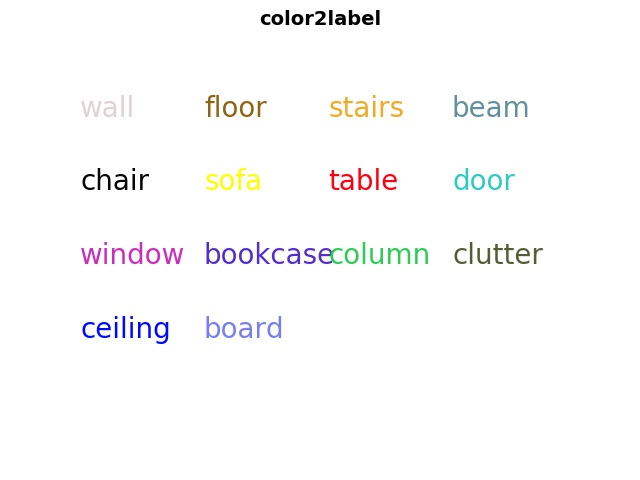
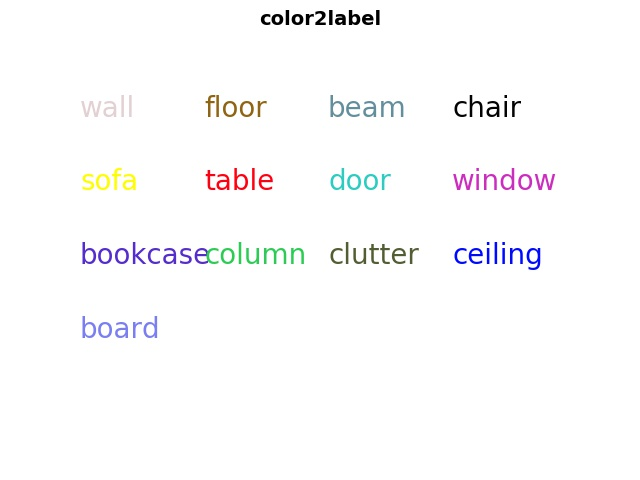
small fix

diff --git a/data/utils.py b/data/utils.py
@@ -4,23 +4,22 @@ import numpy as np
 from numpy.linalg import matrix_rank, inv
 from plyfile import PlyData, PlyElement
 import pandas as pd
-CLASS_LABELS = ('wall', 'floor', 'stairs', 'beam', 'chair', 'sofa', 'table', 'door', 'window', 'bookcase', 'column', 'clutter', 'ceiling', 'board')
+CLASS_LABELS = ('wall', 'floor', 'beam', 'chair', 'sofa', 'table', 'door', 'window', 'bookcase', 'column', 'clutter', 'ceiling', 'board')
 COLOR_MAP_RGB = {
     0: (0., 0., 0.),
     1: (227., 209., 212.),
     2: (143., 100., 21.),
-    3: (242., 171., 39.),
-    4: (100., 143., 156.),
-    5: (3., 3., 3.),
-    6: (255., 255., 0.),
-    7: (255., 0., 17.),
-    8: (45., 204., 193.),
-    9: (204., 45., 191.),
-    10: (85., 45., 204.),
-    11: (45., 204., 85.),
-    12: (81., 94., 51.),
-    13: (0., 9., 255.),
-    14: (122., 126., 240.)
+    3: (100., 143., 156.),
+    4: (3., 3., 3.),
+    5: (255., 255., 0.),
+    6: (255., 0., 17.),
+    7: (45., 204., 193.),
+    8: (204., 45., 191.),
+    9: (85., 45., 204.),
+    10: (45., 204., 85.),
+    11: (81., 94., 51.),
+    12: (0., 9., 255.),
+    13: (122., 126., 240.)
 }
 IGNORE_COLOR = (0, 0, 0)
 
@@ -61,8 +60,6 @@ def color2label():
             color=COLOR_MAP_RGB[12], fontsize=font)
     ax.text(0, 0.3, CLASS_LABELS[12], verticalalignment='top', horizontalalignment='left', transform=ax.transAxes,
             color=COLOR_MAP_RGB[13], fontsize=font)
-    ax.text(0.25, 0.3, CLASS_LABELS[13], verticalalignment='top', horizontalalignment='left', transform=ax.transAxes,
-            color=COLOR_MAP_RGB[14], fontsize=font)
 
     plt.axis('off')
     plt.savefig("./color2label.jpg")
@@ -380,3 +377,7 @@ class PlyWriter(object):
     subpointcloud = np.concatenate([xyz, label], axis=1)
     subpointcloud = np.array([tuple(l) for l in subpointcloud], dtype=cls.POINTCLOUD_DTYPE)
     return np.concatenate([target, subpointcloud], axis=0)
+
+
+if __name__ == '__main__':
+    color2label()
